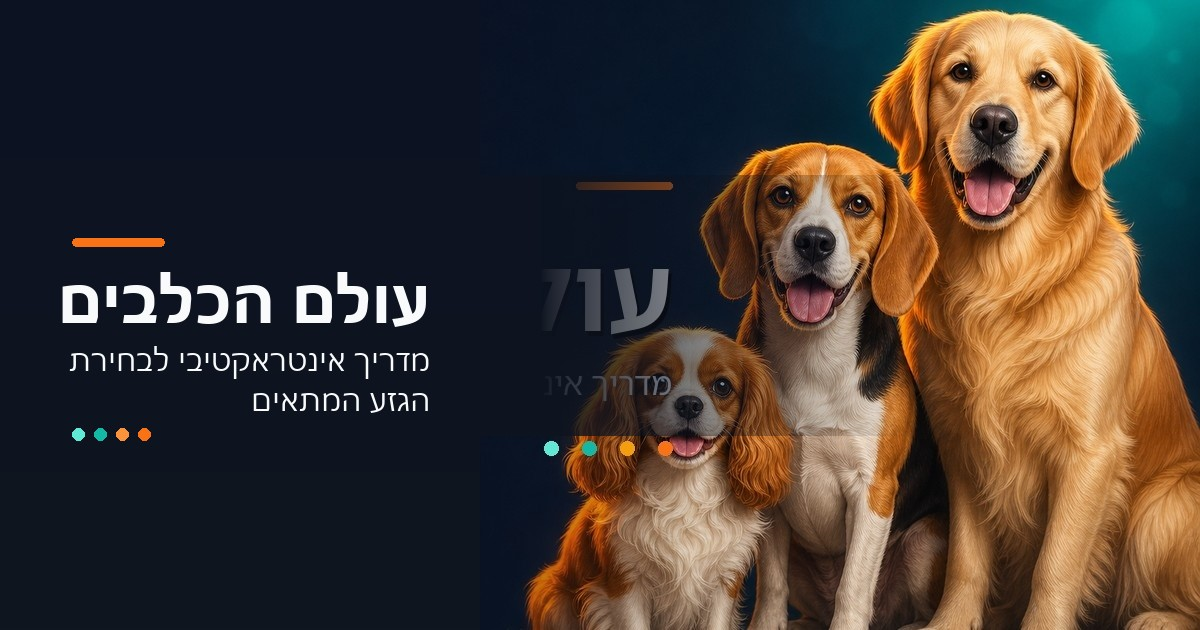
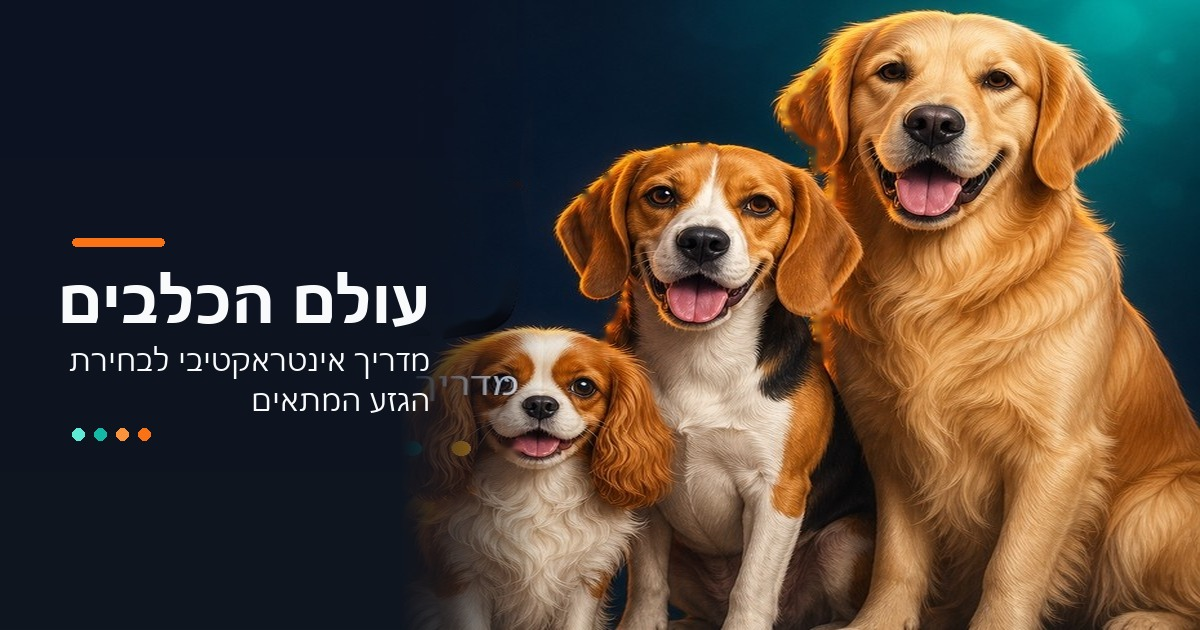
Rebuild OG image from clean background and dog crop.
Stop editing baked text in place; inpaint the source photo, composite dogs on a fresh panel, and draw typography only on the left.

diff --git a/index.html b/index.html
@@ -51,8 +51,8 @@
   <!-- Share preview image: 1200×630 JPEG. Absolute URL so crawlers (which
        don't run JS) can fetch it directly, regardless of the host the
        link was shared from. -->
-  <meta property="og:image" content="https://shenhaveliya.github.io/dog-world/og-image.jpg?v=20260520-layout10" />
-  <meta property="og:image:secure_url" content="https://shenhaveliya.github.io/dog-world/og-image.jpg?v=20260520-layout10" />
+  <meta property="og:image" content="https://shenhaveliya.github.io/dog-world/og-image.jpg?v=20260520-v11" />
+  <meta property="og:image:secure_url" content="https://shenhaveliya.github.io/dog-world/og-image.jpg?v=20260520-v11" />
   <meta property="og:image:type" content="image/jpeg" />
   <meta property="og:image:width" content="1200" />
   <meta property="og:image:height" content="630" />
@@ -63,7 +63,7 @@
   <meta name="twitter:card" content="summary_large_image" />
   <meta id="twTitle" name="twitter:title" content="עולם הכלבים – מדריך לבחירת הגזע המתאים" />
   <meta id="twDescription" name="twitter:description" content="מדריך אינטראקטיבי לסוגי כלבים, אופי הגזעים, התאמה למשפחה, וטיפים לבחירת הכלב המתאים לך." />
-  <meta name="twitter:image" content="https://shenhaveliya.github.io/dog-world/og-image.jpg?v=20260520-layout10" />
+  <meta name="twitter:image" content="https://shenhaveliya.github.io/dog-world/og-image.jpg?v=20260520-v11" />
   <meta id="twImageAlt" name="twitter:image:alt" content="עולם הכלבים – מדריך אינטראקטיבי לבחירת הגזע המתאים" />
 
   <!-- Privacy-friendly analytics. Works after the domain is added in Plausible. -->

diff --git a/scripts/generate-og-image.py b/scripts/generate-og-image.py
@@ -5,6 +5,7 @@ from __future__ import annotations
 
 from pathlib import Path
 
+import cv2
 import numpy as np
 from bidi.algorithm import get_display
 from PIL import Image, ImageDraw, ImageFont
@@ -17,12 +18,8 @@ W, H = 1200, 630
 TEXT_RIGHT = 430
 TEXT_LEFT = 72
 
-# Original baked UI spans y≈184 (orange bar) through y≈430 (subtitle/dots).
-TEXT_BAND = (175, 435)
-# Replace the entire dark left column so nothing from the source photo bleeds through.
-LEFT_PANEL_X = 480
-# Fade the text-band wipe back into the dog photo on the right edge.
-TEXT_FADE_X = (540, 920)
+DOG_CROP_X = 580
+DOG_PASTE_X = 400
 
 
 def load_font(size: int, bold: bool = False) -> ImageFont.FreeTypeFont:
@@ -34,8 +31,7 @@ def load_font(size: int, bold: bool = False) -> ImageFont.FreeTypeFont:
     return ImageFont.load_default()
 
 
-def left_bg_color(y: int) -> tuple[int, int, int]:
-    """Vertical gradient sampled from the original dark left panel."""
+def bg_color(y: int) -> tuple[int, int, int]:
     t = y / (H - 1)
     r = int(12 + (16 - 12) * t)
     g = int(18 + (22 - 18) * t)
@@ -43,34 +39,58 @@ def left_bg_color(y: int) -> tuple[int, int, int]:
     return r, g, b
 
 
-def paint_left_panel(canvas: Image.Image) -> None:
-    """Solid dark panel on the left — removes all original typography there."""
-    arr = np.array(canvas, dtype=np.float32)
+def build_text_mask(ref: np.ndarray) -> np.ndarray:
+    mask = np.zeros((H, W), dtype=np.uint8)
     for y in range(H):
-        bg = np.array(left_bg_color(y), dtype=np.float32)
-        arr[y, :LEFT_PANEL_X] = bg
-    canvas.paste(Image.fromarray(np.clip(arr, 0, 255).astype(np.uint8)))
+        for x in range(W):
+            r, g, b = ref[y, x]
+            if r >= 248 and g >= 248 and b >= 248:
+                mask[y, x] = 255
+            elif r >= 235 and g >= 100 and g <= 135 and b <= 35:
+                mask[y, x] = 255
+    kernel = cv2.getStructuringElement(cv2.MORPH_ELLIPSE, (5, 5))
+    return cv2.dilate(mask, kernel, iterations=2)
 
 
-def clear_text_band(canvas: Image.Image) -> None:
-    """Fully cover the original title/subtitle/orange bar over the dogs."""
-    arr = np.array(canvas, dtype=np.float32)
-    y0, y1 = TEXT_BAND
-    fade_start, fade_end = TEXT_FADE_X
+def clean_reference(ref: Image.Image) -> Image.Image:
+    rgb = np.array(ref.convert("RGB"))
+    mask = build_text_mask(rgb)
+    if not mask.any():
+        return ref
+    bgr = cv2.cvtColor(rgb, cv2.COLOR_RGB2BGR)
+    cleaned = cv2.inpaint(bgr, mask, inpaintRadius=4, flags=cv2.INPAINT_TELEA)
+    return Image.fromarray(cv2.cvtColor(cleaned, cv2.COLOR_BGR2RGB))
 
-    for y in range(y0, y1 + 1):
-        bg = np.array(left_bg_color(y), dtype=np.float32)
-        for x in range(LEFT_PANEL_X, fade_end + 1):
-            if x <= fade_start:
-                alpha = 1.0
-            else:
-                t = (x - fade_start) / (fade_end - fade_start)
-                alpha = max(0.0, 1.0 - t**0.75)
-            if alpha <= 0:
-                continue
-            arr[y, x] = arr[y, x] * (1.0 - alpha) + bg * alpha
 
-    canvas.paste(Image.fromarray(np.clip(arr, 0, 255).astype(np.uint8)))
+def draw_background() -> Image.Image:
+    base = Image.new("RGB", (W, H))
+    draw = ImageDraw.Draw(base)
+    for y in range(H):
+        draw.line([(0, y), (W, y)], fill=bg_color(y))
+
+    glow = Image.new("RGBA", (W, H), (0, 0, 0, 0))
+    gdraw = ImageDraw.Draw(glow)
+    gdraw.ellipse((520, -80, 1100, 420), fill=(249, 115, 22, 36))
+    gdraw.ellipse((680, 180, 1180, 680), fill=(20, 184, 166, 28))
+    return Image.alpha_composite(base.convert("RGBA"), glow).convert("RGB")
+
+
+def feather_mask(width: int, height: int, feather: int) -> Image.Image:
+    mask = Image.new("L", (width, height), 255)
+    ramp = np.linspace(0, 255, feather, dtype=np.uint8)
+    px = mask.load()
+    for x in range(feather):
+        for y in range(height):
+            px[x, y] = int(ramp[x])
+    return mask
+
+
+def paste_dogs(canvas: Image.Image, ref: Image.Image) -> None:
+    src = ref.crop((DOG_CROP_X, 0, W, H))
+    target_w = W - DOG_PASTE_X
+    dogs = src.resize((target_w, H), Image.Resampling.LANCZOS)
+    mask = feather_mask(target_w, H, feather=140)
+    canvas.paste(dogs, (DOG_PASTE_X, 0), mask)
 
 
 def draw_text(canvas: Image.Image) -> None:
@@ -95,9 +115,9 @@ def draw_text(canvas: Image.Image) -> None:
 
 
 def build_canvas(ref: Image.Image) -> Image.Image:
-    canvas = ref.convert("RGB").copy()
-    paint_left_panel(canvas)
-    clear_text_band(canvas)
+    cleaned = clean_reference(ref)
+    canvas = draw_background()
+    paste_dogs(canvas, cleaned)
     return canvas
 
 
@@ -107,7 +127,7 @@ def main() -> None:
 
     canvas = build_canvas(Image.open(REF))
     draw_text(canvas)
-    canvas.save(OUT, format="JPEG", quality=90, optimize=True, progressive=True)
+    canvas.save(OUT, format="JPEG", quality=92, optimize=True, progressive=False)
     print(f"Wrote {OUT} ({OUT.stat().st_size // 1024} KB)")
 
 
